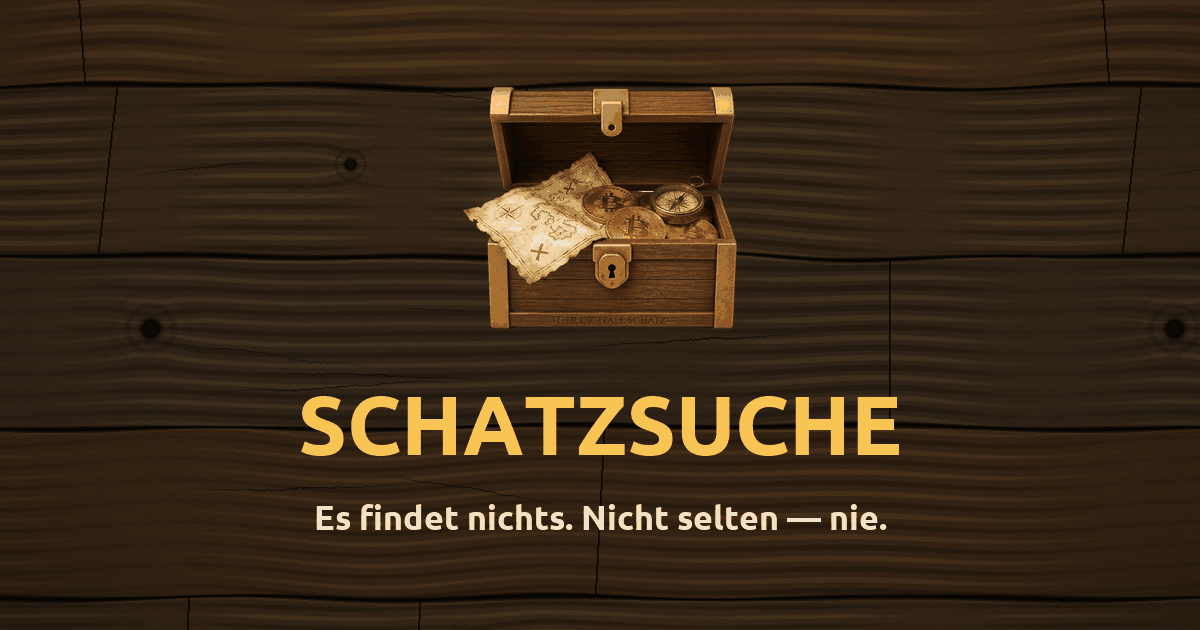
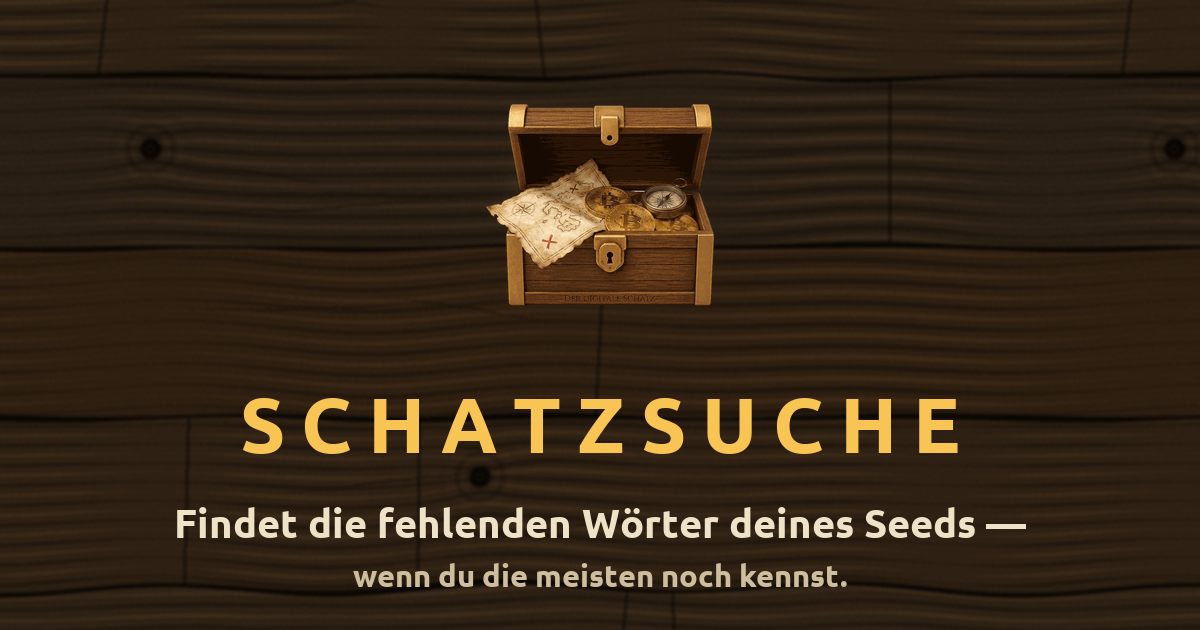
Tighten the stage, sign in the last line, and let the card tell the new story

diff --git a/docs/index.html b/docs/index.html
@@ -60,7 +60,7 @@ h1, h2, h3, .wordmark, .bignum { font-family: "Ubuntu Bold", system-ui, sans-ser
 img { max-width: 100%; height: auto; display: block; }
 a { color: var(--blue); }
 
-section { padding: 4rem 1.25rem; padding: clamp(3.5rem, 9vw, 7rem) 1.25rem; }
+section { padding: 3.5rem 1.25rem; padding: clamp(3rem, 7vw, 5rem) 1.25rem; }
 .wrap { max-width: 62rem; margin: 0 auto; }
 .narrow { max-width: 44rem; margin: 0 auto; }
 
@@ -105,8 +105,8 @@ p + p { margin-top: .9rem; }
 
 /* ------- 1 · Kopf ------- */
 .hero {
-  min-height: 100vh;
-  min-height: 100svh;
+  min-height: min(100vh, 44rem);
+  min-height: min(100svh, 44rem);
   display: flex; flex-direction: column; align-items: center; justify-content: center;
   text-align: center; gap: 1.1rem; padding-top: 4rem; padding-bottom: 4rem;
 }
@@ -461,20 +461,7 @@ footer .fineprint { text-align: center; margin-top: 1rem; }
   </div>
 </section>
 
-<!-- 8 · Impressum -->
-<section id="impressum" style="padding-top:3rem; padding-bottom:3rem">
-  <div class="narrow">
-    <div class="cap">Impressum</div>
-    <p class="fineprint">Angaben gemäß § 5 DDG</p>
-    <p class="fineprint" style="margin-top:.7rem">Dustin Tur<br>
-    c/o IP-Management #11251<br>
-    Ludwig-Erhard-Straße 18<br>
-    20459 Hamburg</p>
-    <p class="fineprint">E-Mail: <a href="mailto:schatzsuche-bitcoin@proton.me">schatzsuche-bitcoin@proton.me</a></p>
-  </div>
-</section>
-
-<!-- 9 · Fuß -->
+<!-- 8 · Fuß -->
 <footer>
   <div class="row">
     <a href="#herunterladen">Herunterladen</a>
@@ -485,6 +472,8 @@ footer .fineprint { text-align: center; margin-top: 1rem; }
   </div>
   <p class="fineprint">Wallets raten findet nichts. Nicht selten — nie. Wer dir etwas anderes verspricht, verkauft
   dir etwas.<br>Überschriften-Schrift: Ubuntu Bold, <a href="assets/UBUNTU-FONT-LICENCE.txt">Ubuntu Font Licence</a>.</p>
+  <p class="fineprint" id="impressum">Impressum (Angaben gemäß § 5 DDG): Dustin Tur · c/o IP-Management #11251 ·
+  Ludwig-Erhard-Straße 18 · 20459 Hamburg · <a href="mailto:schatzsuche-bitcoin@proton.me">schatzsuche-bitcoin@proton.me</a></p>
 </footer>
 
 <script>
